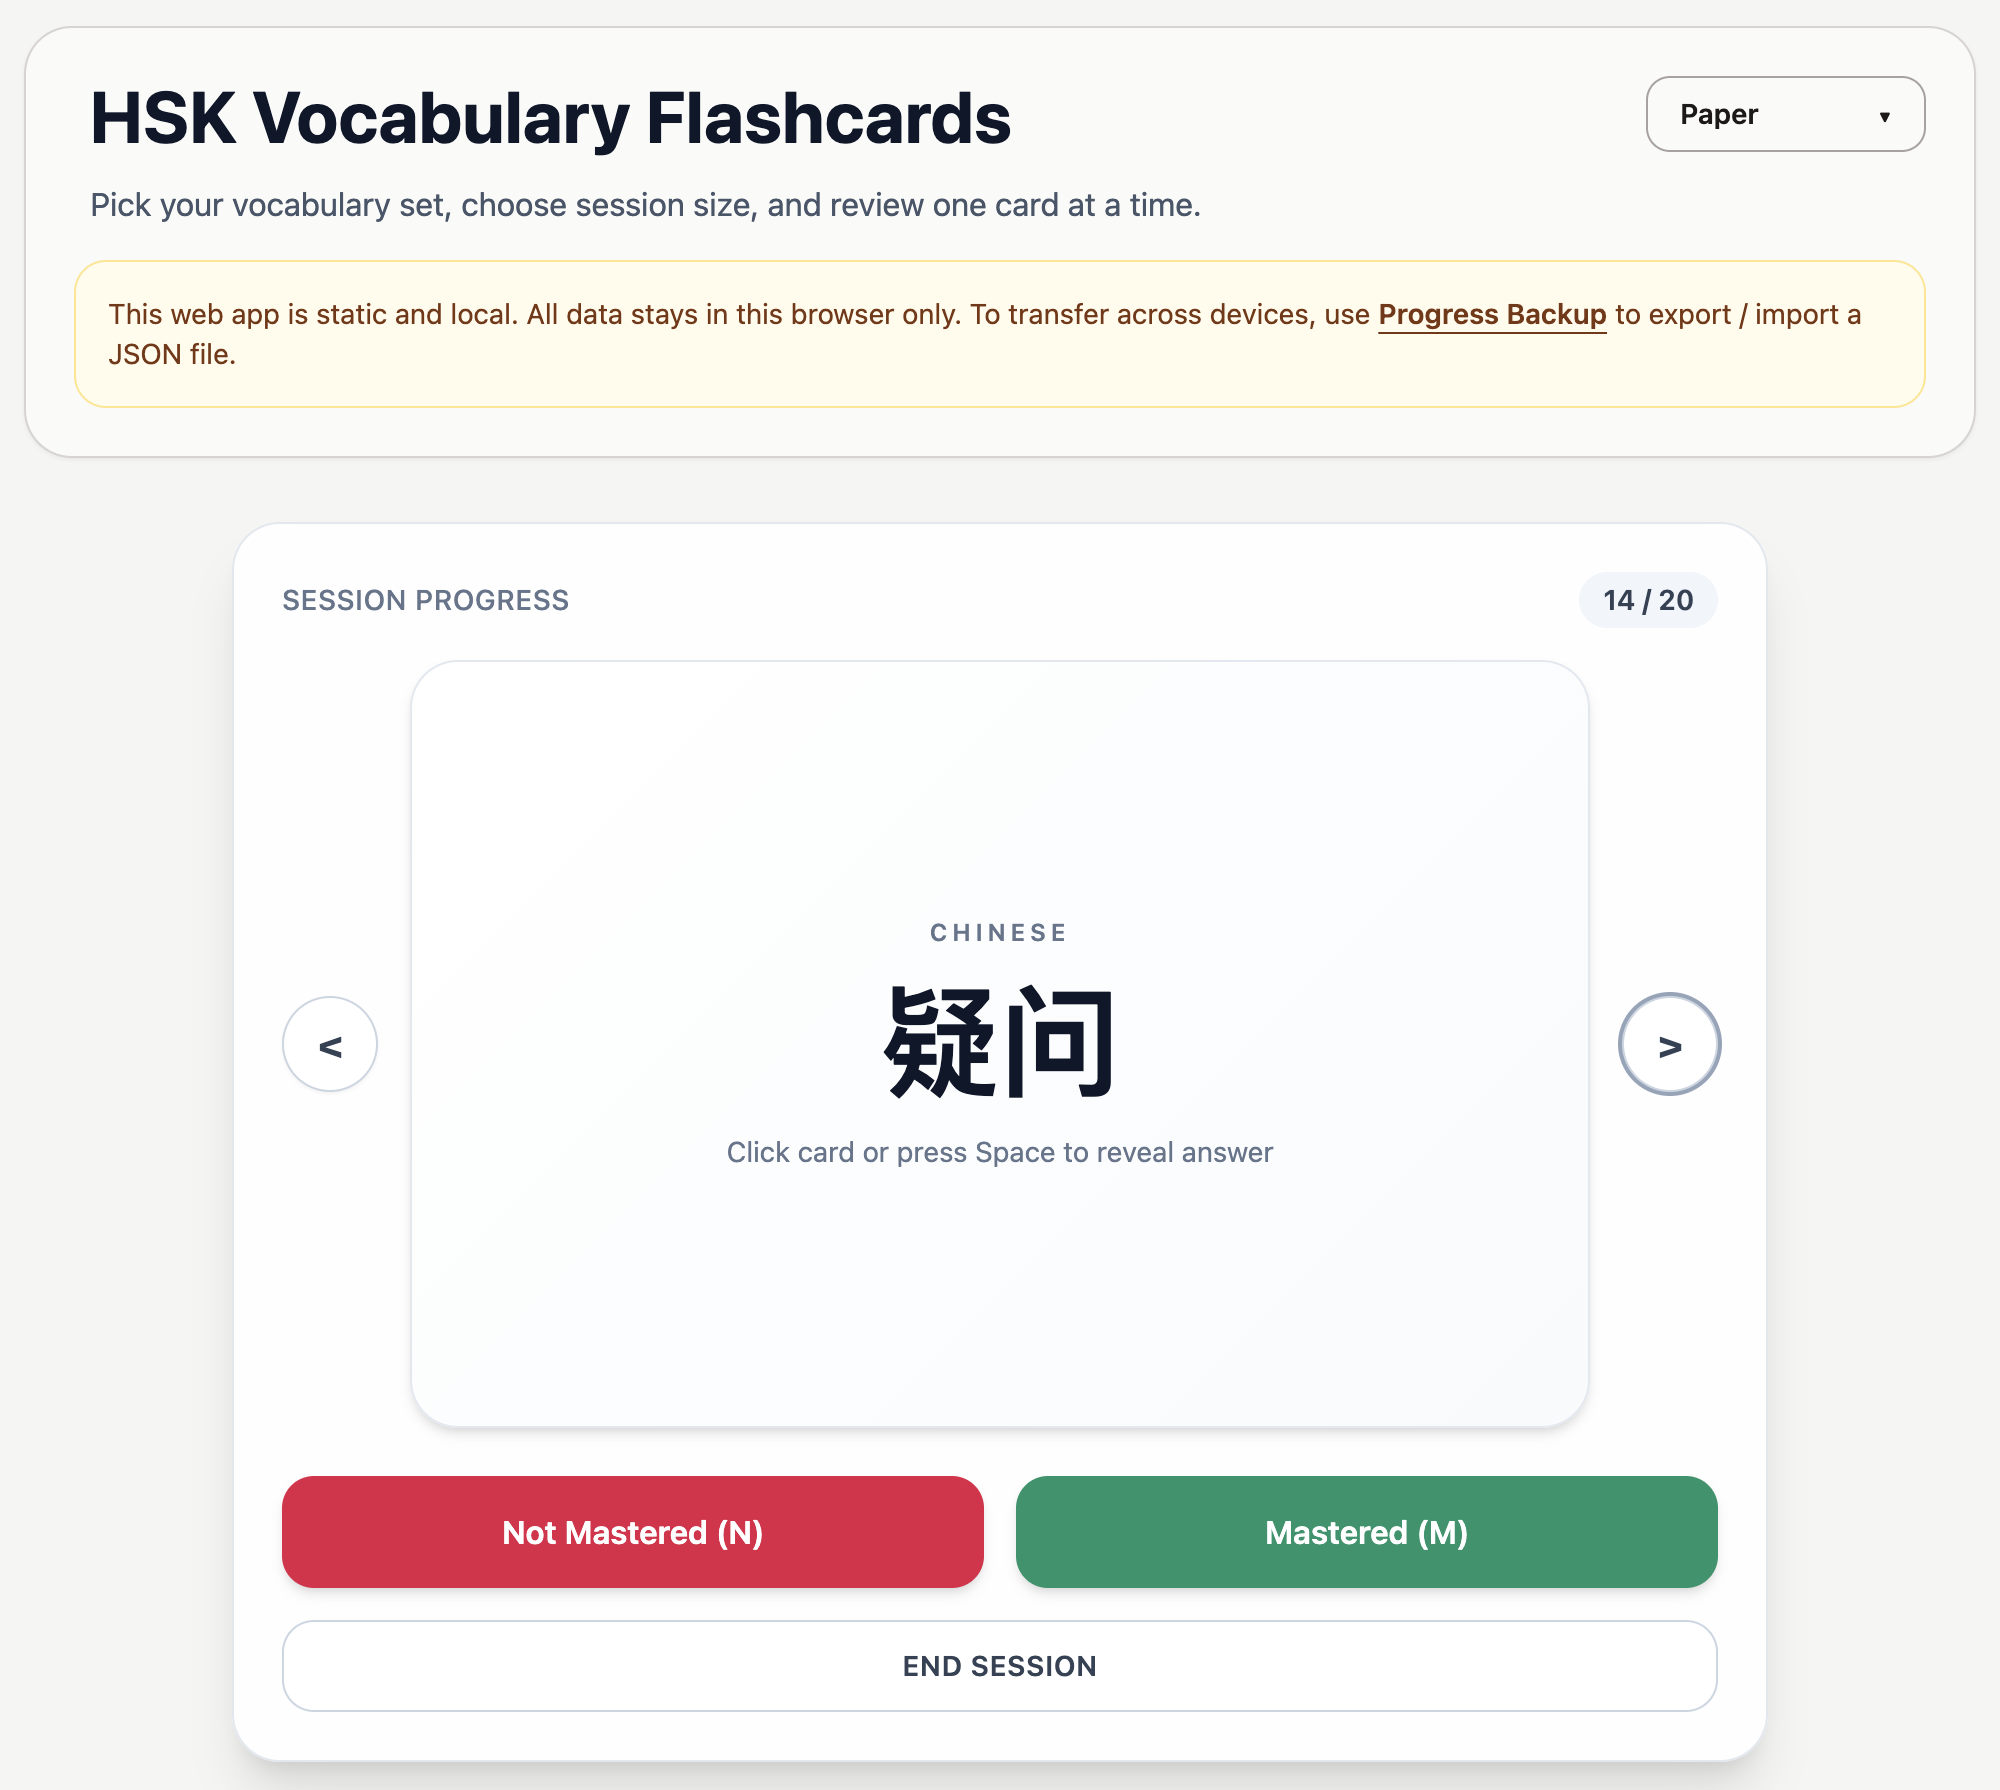
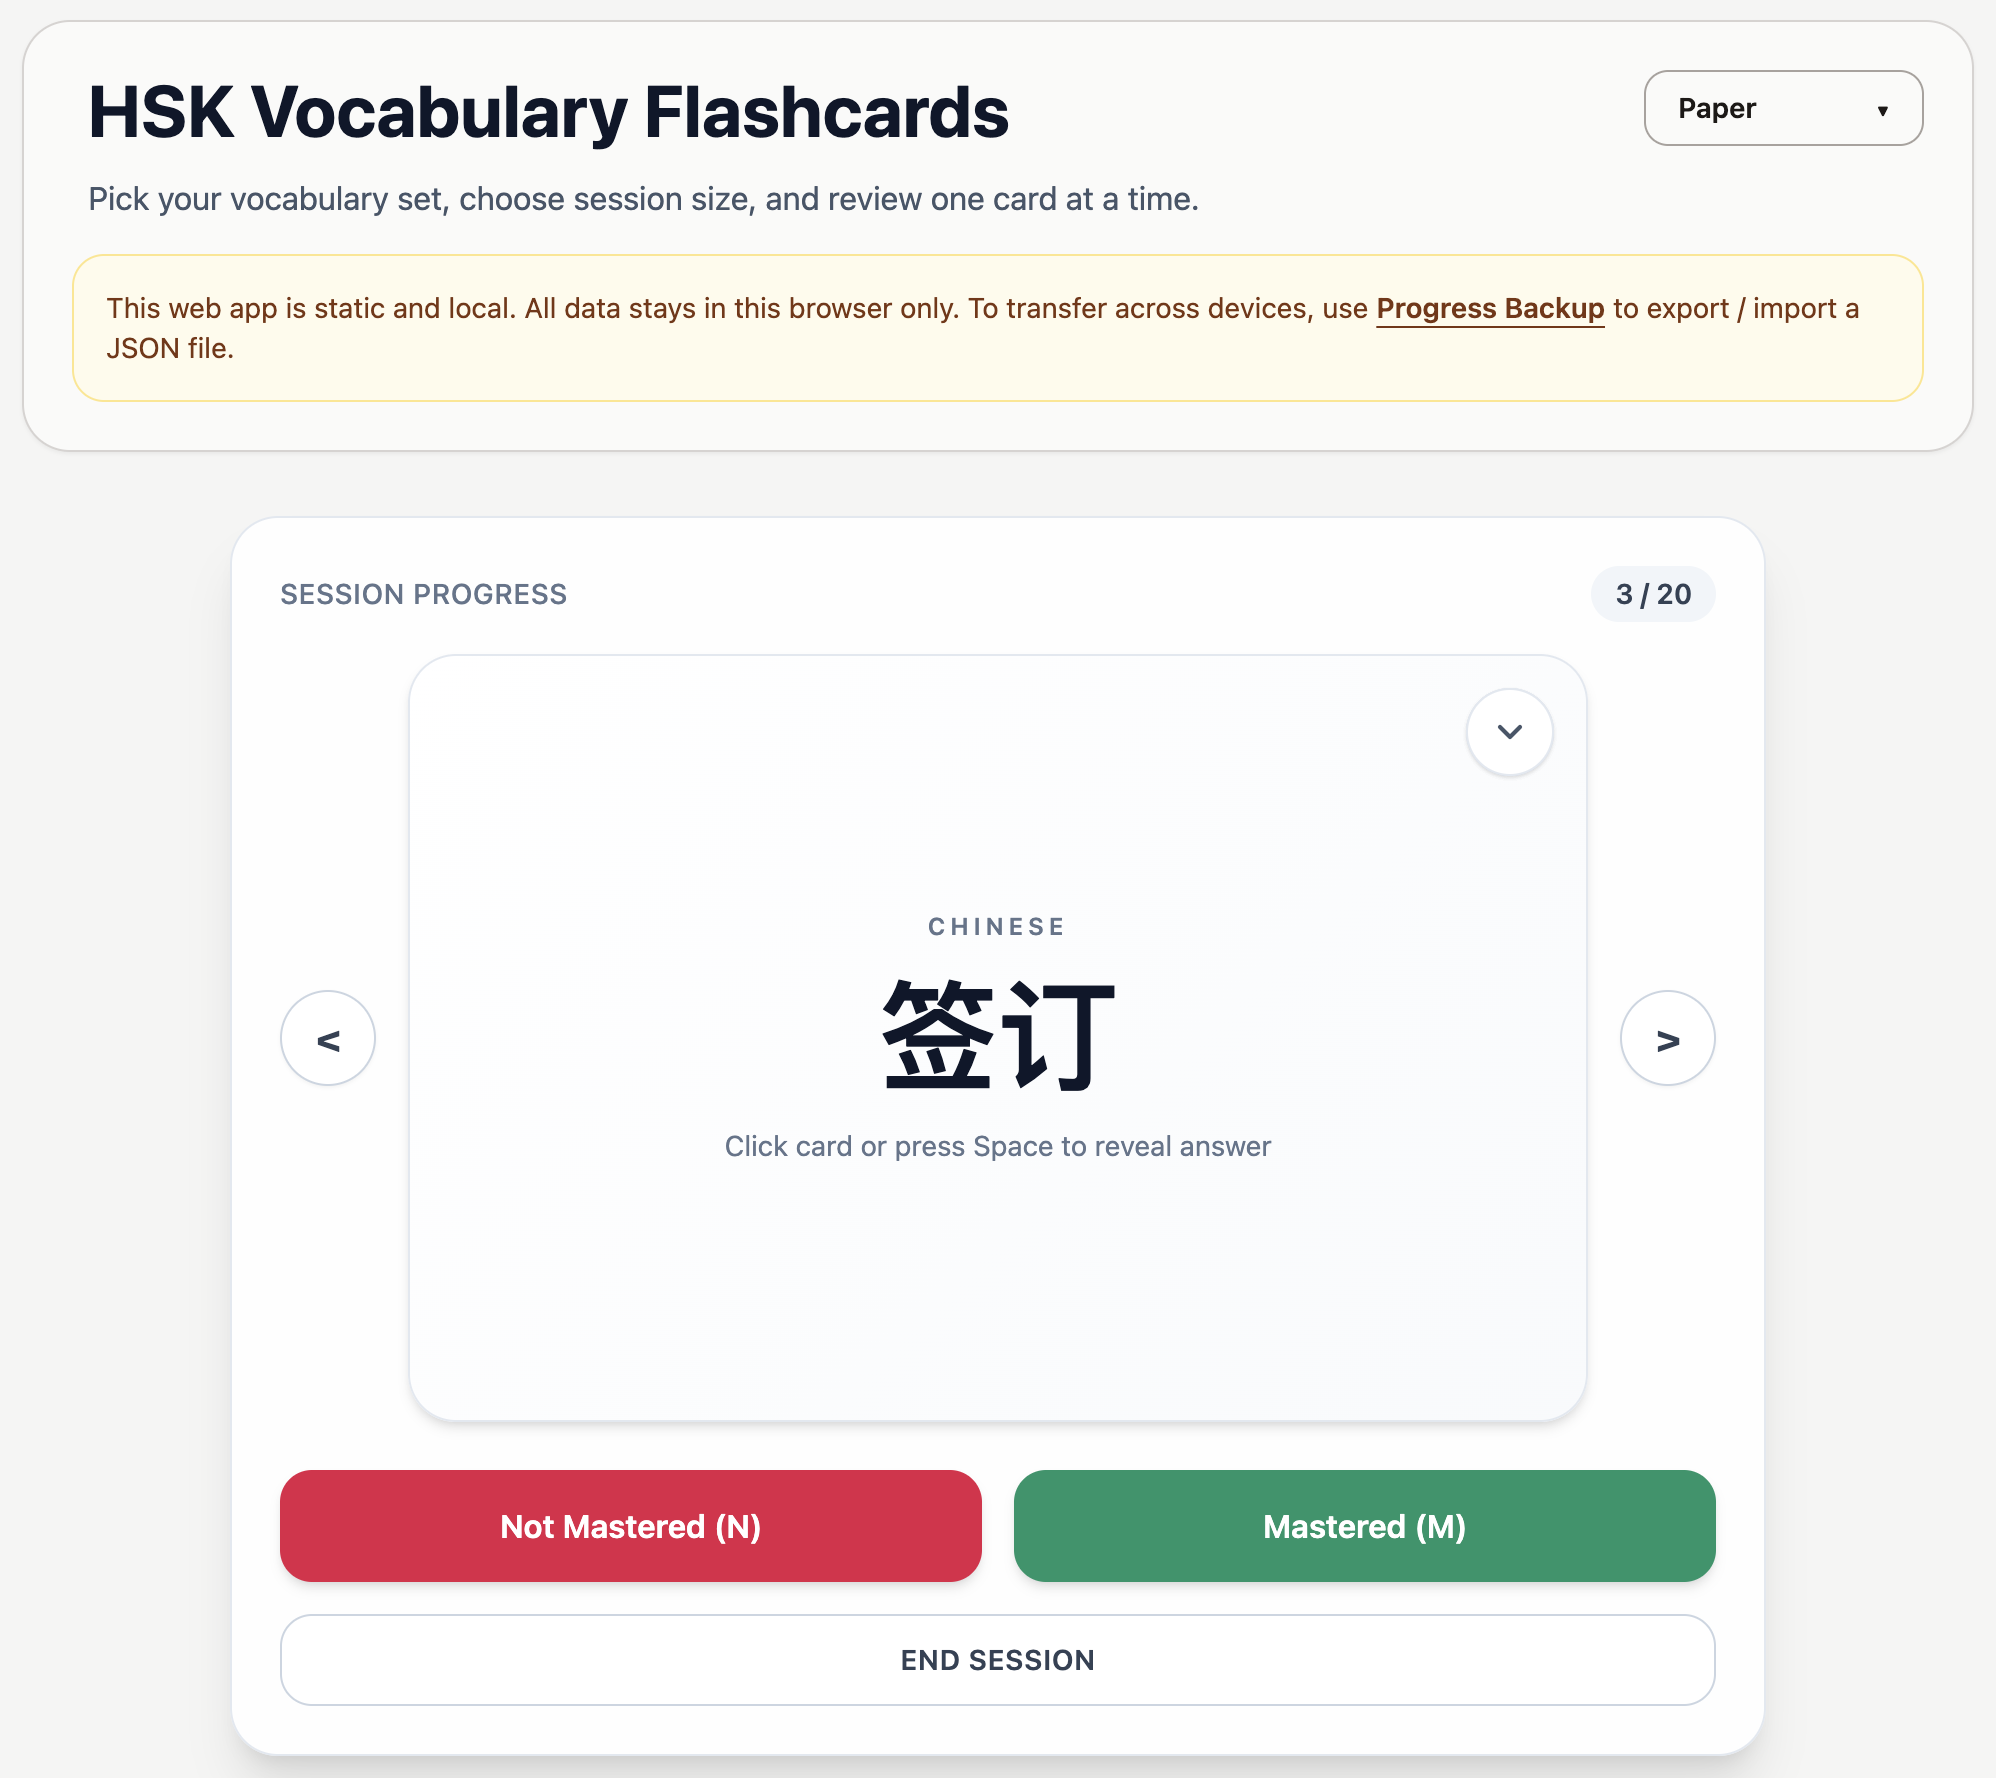
update README.md

diff --git a/scrap/find_similar_characters.py b/scrap/find_similar_characters.py
@@ -38,7 +38,7 @@ Examples:
     python3 scrap/find_similar_characters.py --method exp --glyph-threshold 0.60 --ssim-threshold 0.95 --use-phonetic --use-decomposition --max-stroke-gap 4
 
 Current:
-    python3 scrap/find_similar_characters.py --method exp --ssim-threshold 0.6 --glyph-threshold 0.9615 --use-decomposition --max-stroke-gap 4
+    python3 scrap/find_similar_characters.py --method exp --ssim-threshold 0.6 --glyph-threshold 0.961 --use-decomposition --max-stroke-gap 4
 """
 
 from __future__ import annotations

diff --git a/README.md b/README.md
@@ -1,15 +1,33 @@
 # HSK Vocabulary Flashcards
 
-A simple browser-based flashcard app for tracking and reviewing HSK vocabulary, built with React and Vite.
+A web-based flashcard app to review HSK 1–5 vocabulary with progress tracking.
 
-<div>
+[leviathan121005.github.io/hsk-vocabulary-flashcards](https://leviathan121005.github.io/hsk-vocabulary-flashcards/)
+
+<p>
   <img src="./main_preview.png" alt="App Preview" width="600" />
-</div>
+</p>
+
+## Features
+
+- **Flashcard sessions**: select a vocabulary set, mastery pool, and session size to review
+- **Self-mastery tracking**: mark each word as `Mastered` or `Not Mastered` by personal assessment
+- **Vocabulary lookup**: search words and set their mastery manually
+- **Word and character info**: support memorization with example sentences, per-character definitions, visually similar characters, characters with the same pinyin, and other uses of the character in HSK words
+- **Word audio**: verify pronunciation
+
+<p>
+  <img src="./session_preview.png" alt="Session Preview" width="600" />
+</p>
+<p>
+  <img src="./word_and_character_info_preview.png" alt="Word and Character Info Preview" width="600" />
+</p>
 
 ## 1. Clone the Repository
 
 ```bash
-git clone https://github.com/Leviathan121005/hsk-vocabulary-learning-flashcards.git
+git clone https://github.com/Leviathan121005/hsk-vocabulary-flashcards.git
+cd hsk-vocabulary-flashcards
 ```
 
 ## 2. Install and Run Locally
@@ -19,49 +37,26 @@ npm install
 npm run dev
 ```
 
-Open the local URL shown in terminal (usually http://localhost:5173).
+Open the local URL shown in the terminal.
 
-## 3. Build for Production
+## 3. Build and Preview
 
 ```bash
 npm run build
 npm run preview
 ```
 
-## 4. How to Use
+## 4. Notes
 
-### Session Setup
+- Frontend-only, with no account login or cloud sync.
+- Visually similar characters are precomputed offline by combining SSIM, a pretrained MobileNetV3-Small, Ideographic Description Sequence (IDS) component decomposition, and a stroke-count filter.
+- Progress is stored in browser `localStorage` and can be exported or imported as a backup. It is recommended to back up progress periodically as browsers may clear site data which resets progress.
 
-1. Choose an HSK vocabulary set
-2. Set your session size
-3. Click **Start** to begin
+## References
 
-### Session Controls
+**Data sources**
+- [MandarinBean](https://mandarinbean.com/): HSK word lists
+- [Make Me a Hanzi](https://github.com/skishore/makemeahanzi): character decompositions and stroke counts
+- [HSK Annotated Corpus](https://github.com/Roxaleen/hsk-annotated-corpus): example sentences
 
-<div style="margin-bottom: 10px;">
-  <img src="./session_preview.png" alt="App Preview" width="600" />
-</div>
-
-| Keyboard | Action |
-|----------|--------|
-| <kbd>Space</kbd> | Flip card |
-| <kbd>←</kbd> / <kbd>→</kbd> | Previous / next card |
-| <kbd>N</kbd> | Mark as `Not Mastered` |
-| <kbd>M</kbd> | Mark as `Mastered` |
-> Or use the buttons on the screen
-
-End session by marking the last word or by clicking **End Session**.
-
-</div>
-
-### Other Features
-
-- Click **View Vocabulary** to search, review, and manually mark vocabularies.
-- Use **Progress Backup** to export / import your progress data.
-
-## 5. Notes
-
-- This app is frontend-only.
-- Progress is stored in your browser localStorage.
-- No account login nor cloud sync.
-- Current README.md is not up to date.
+**Built with** React, Vite, Tailwind CSS, PyTorch, torchvision, scikit-image
